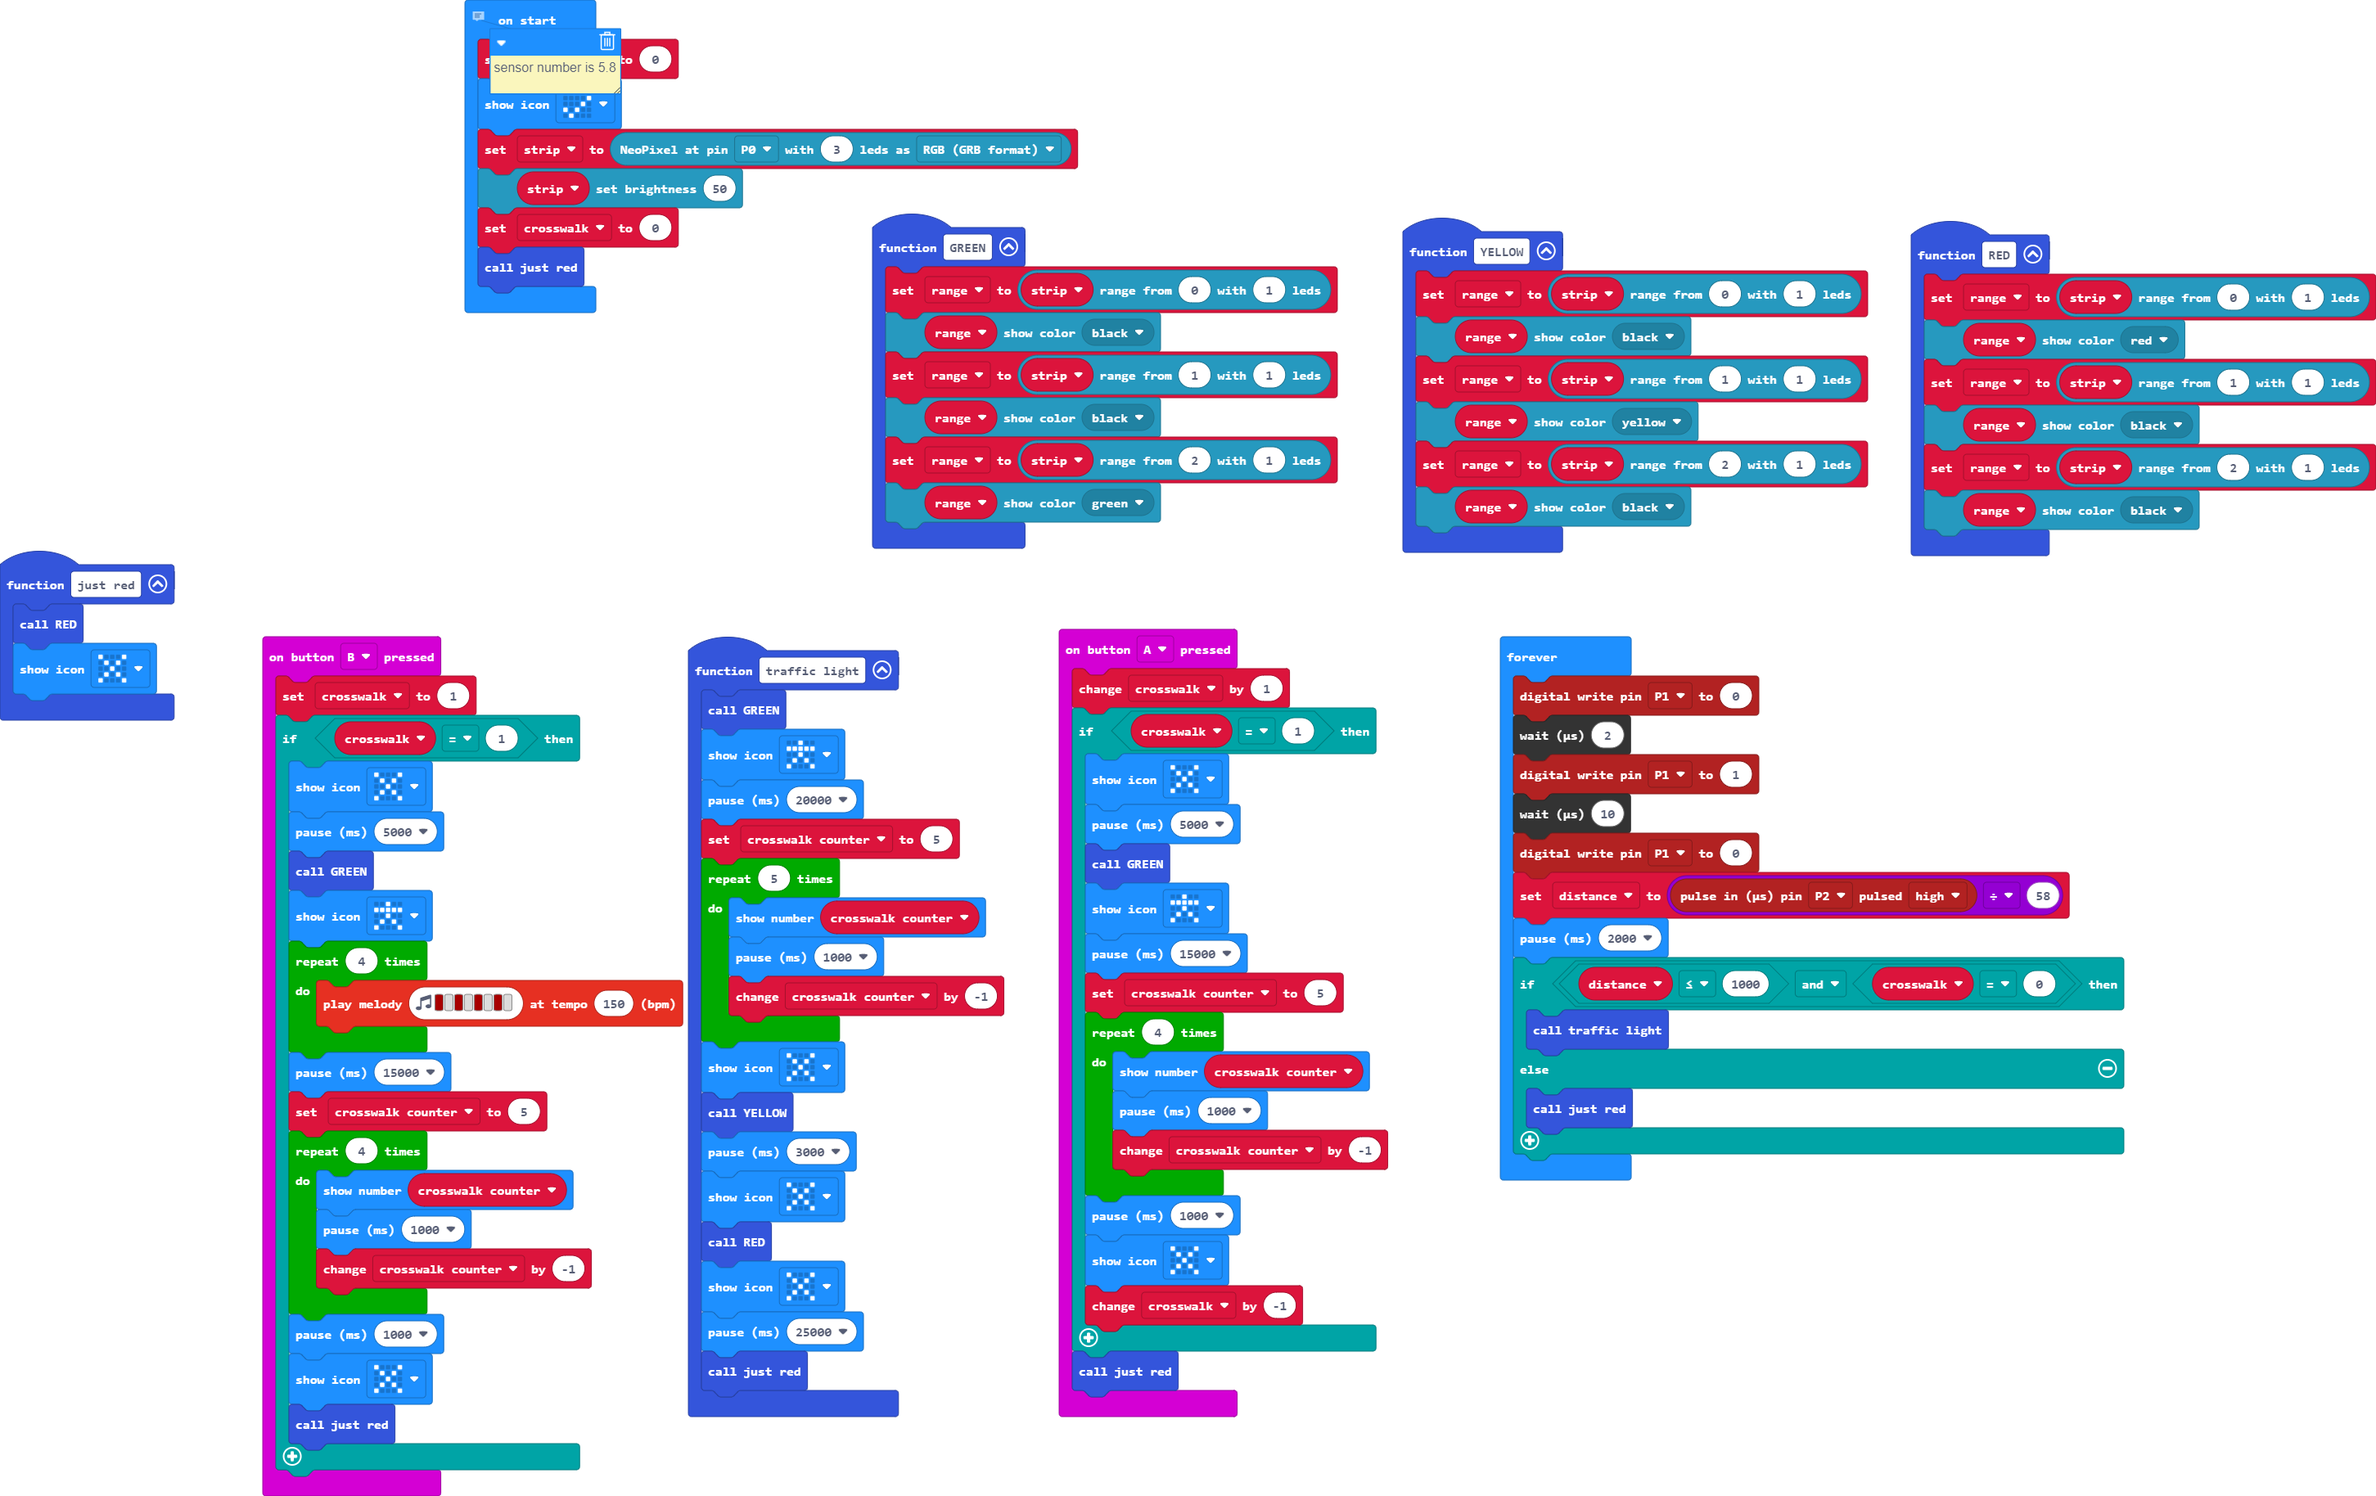
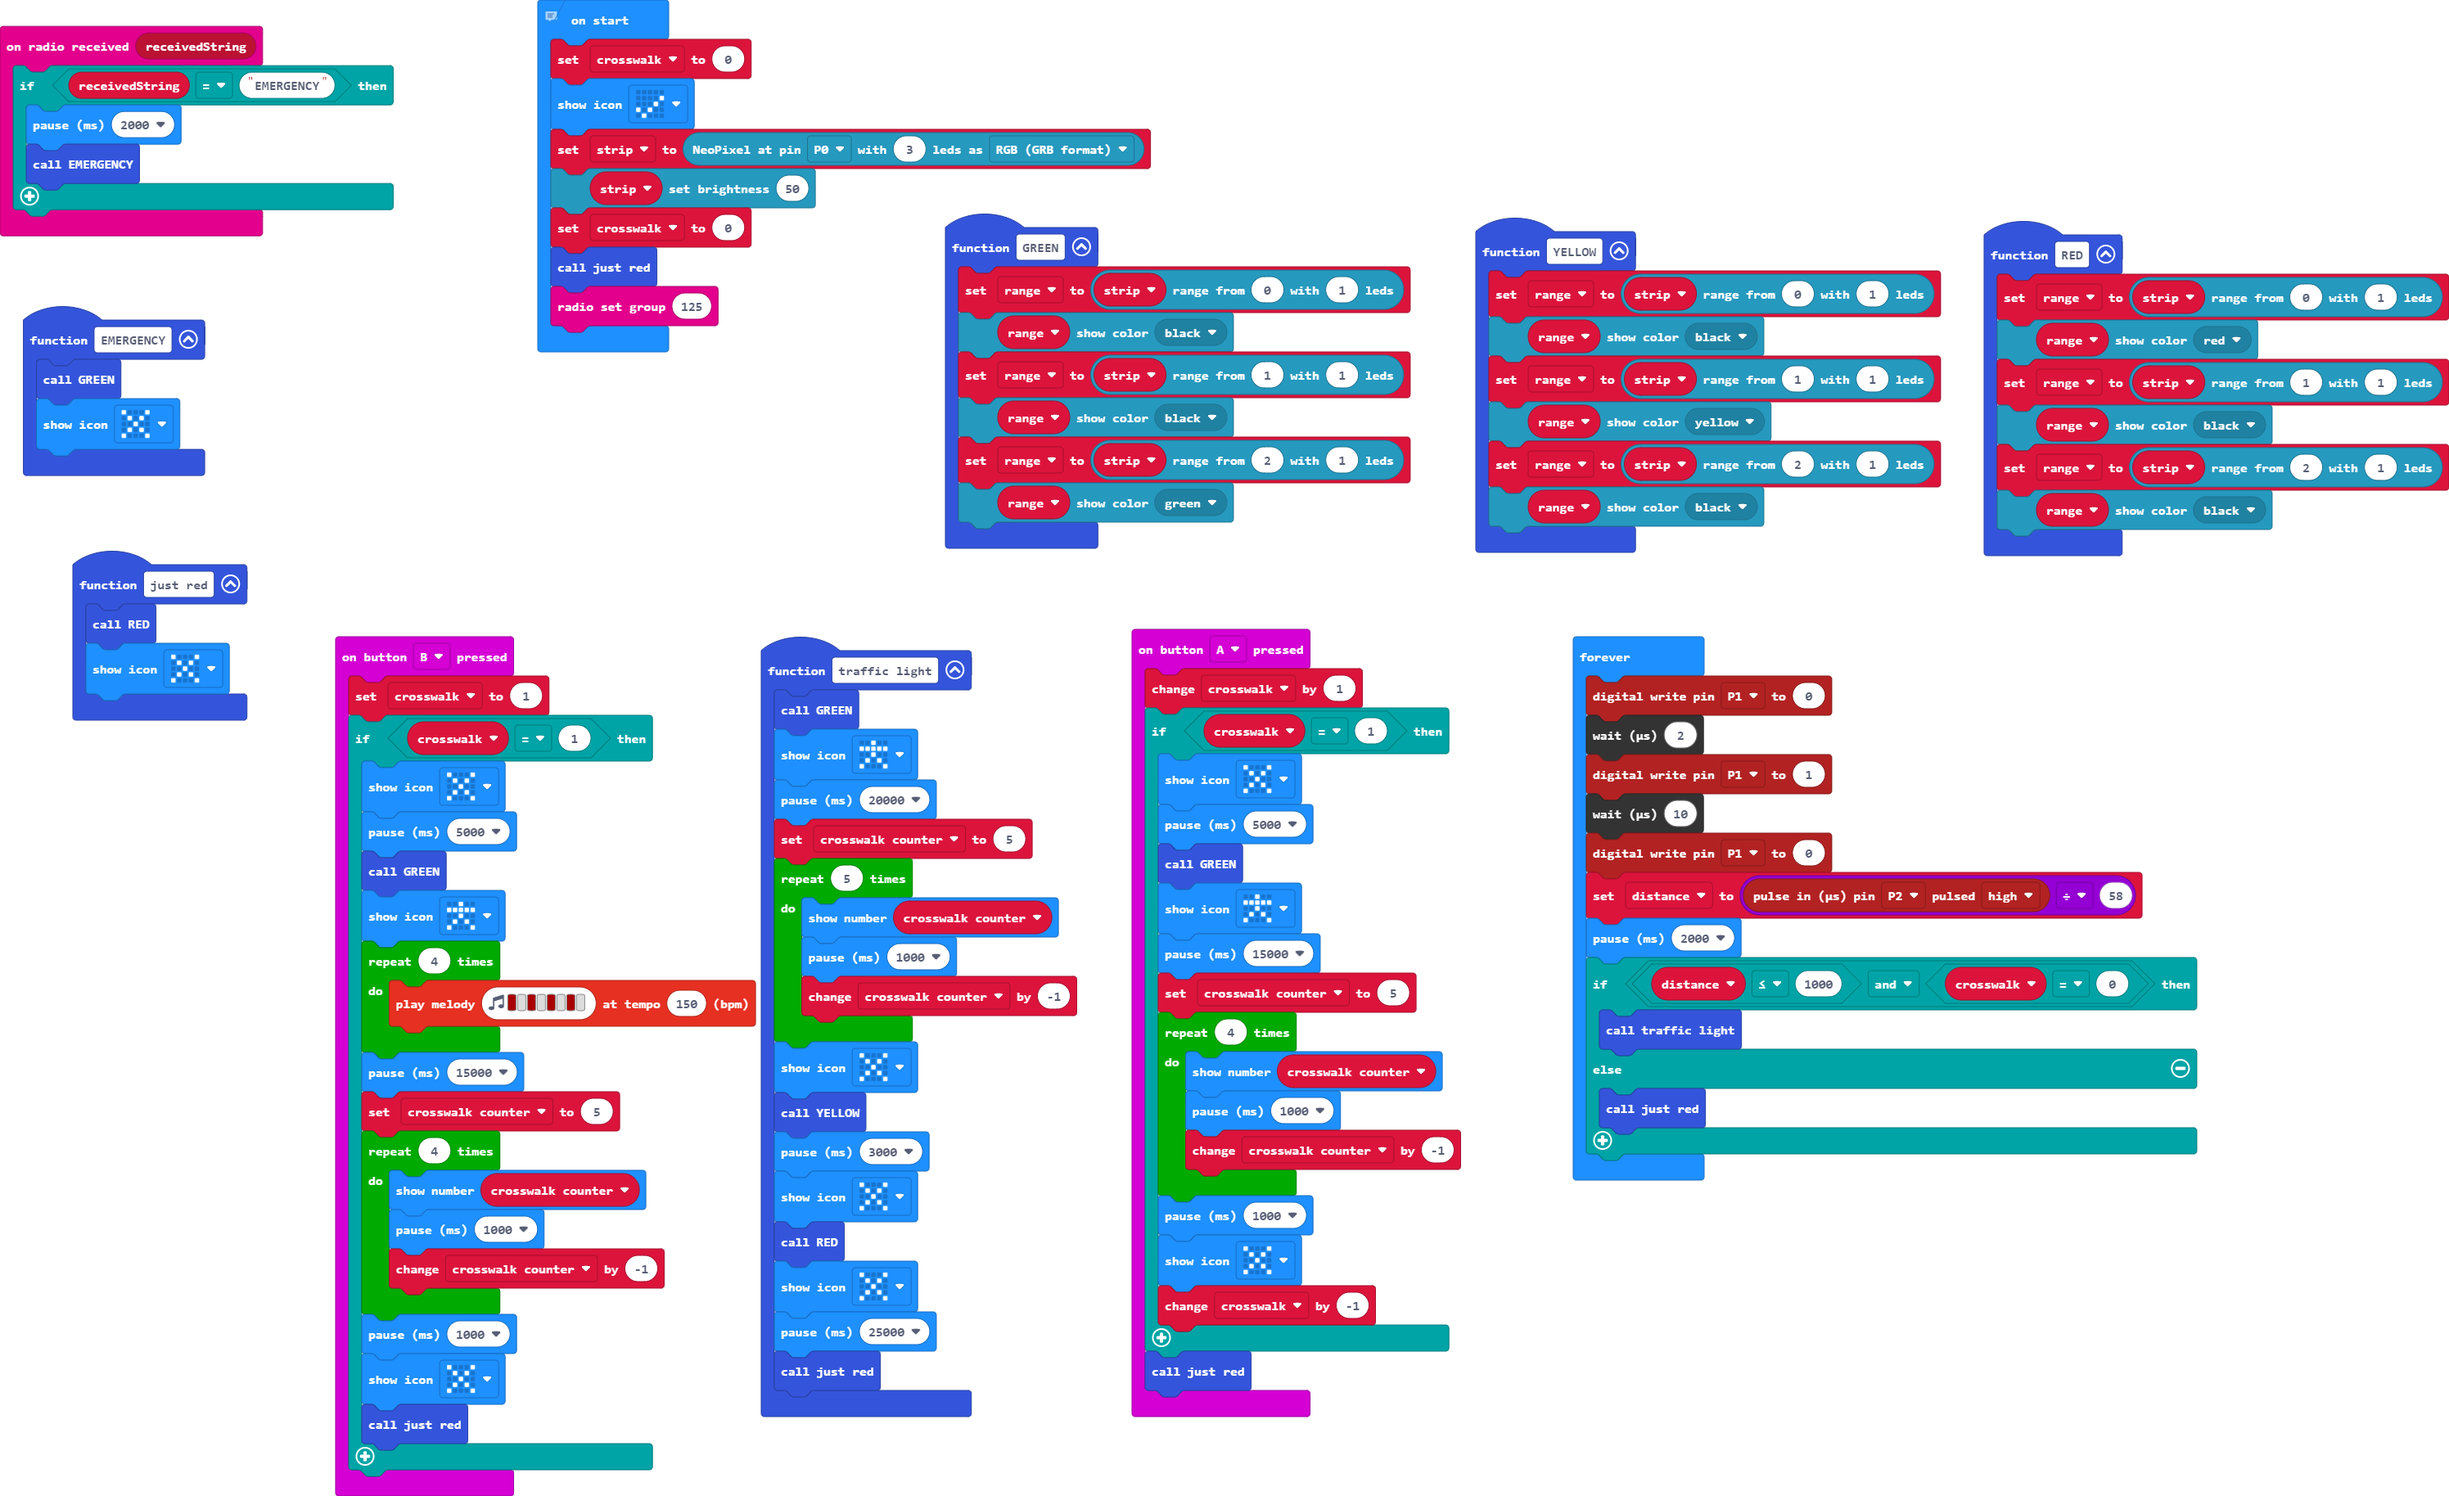
Update main.blocks, main.ts

diff --git a/main.ts b/main.ts
@@ -57,6 +57,12 @@ function GREEN () {
     range = strip.range(2, 1)
     range.showColor(neopixel.colors(NeoPixelColors.Green))
 }
+radio.onReceivedString(function (receivedString) {
+    if (receivedString == "EMERGENCY") {
+        basic.pause(2000)
+        EMERGENCY()
+    }
+})
 input.onButtonPressed(Button.B, function () {
     crosswalk = 1
     if (crosswalk == 1) {
@@ -79,6 +85,10 @@ input.onButtonPressed(Button.B, function () {
         just_red()
     }
 })
+function EMERGENCY () {
+    GREEN()
+    basic.showIcon(IconNames.No)
+}
 function YELLOW () {
     range = strip.range(0, 1)
     range.showColor(neopixel.colors(NeoPixelColors.Black))
@@ -99,6 +109,7 @@ strip = neopixel.create(DigitalPin.P0, 3, NeoPixelMode.RGB)
 strip.setBrightness(50)
 crosswalk = 0
 just_red()
+radio.setGroup(125)
 basic.forever(function () {
     pins.digitalWritePin(DigitalPin.P1, 0)
     control.waitMicros(2)
